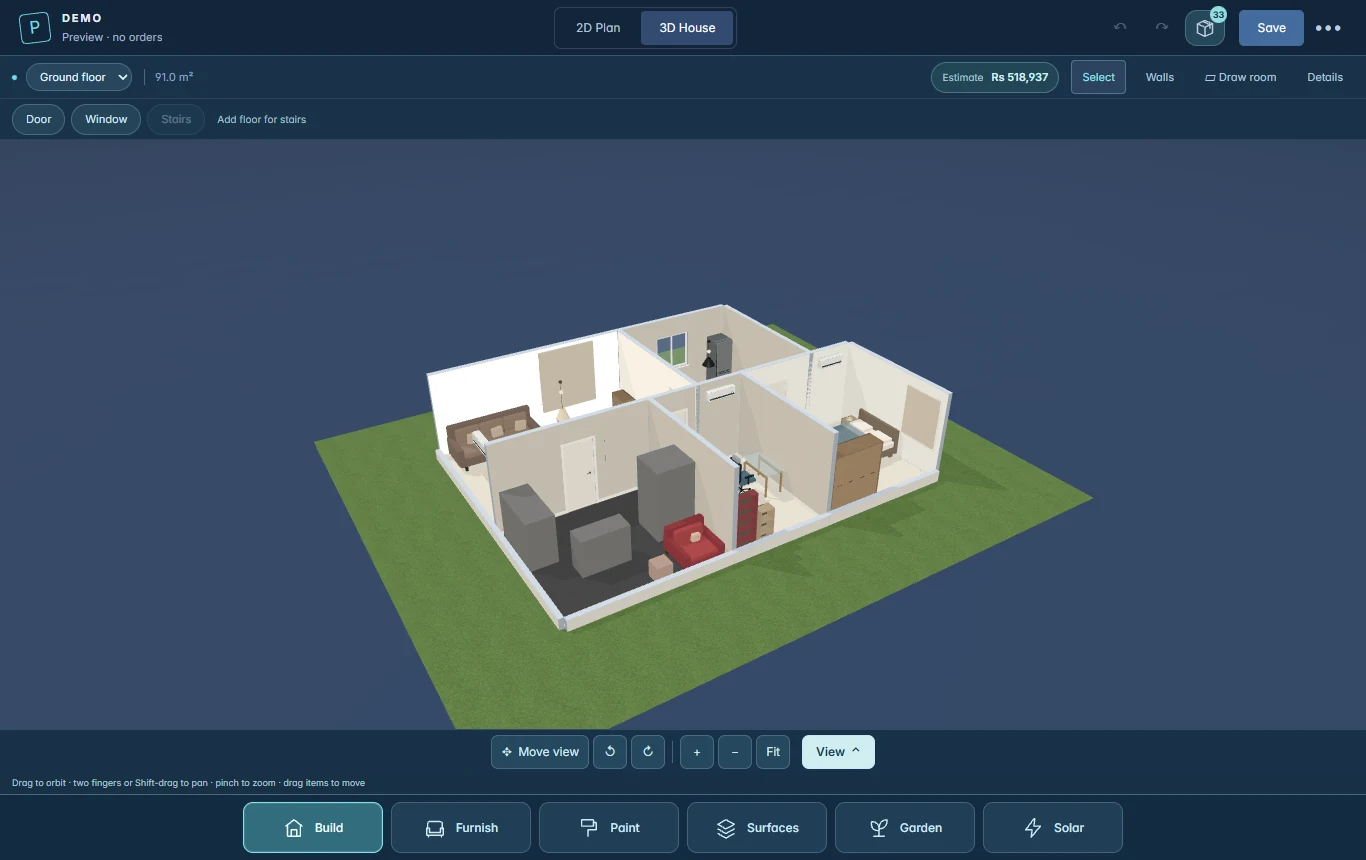
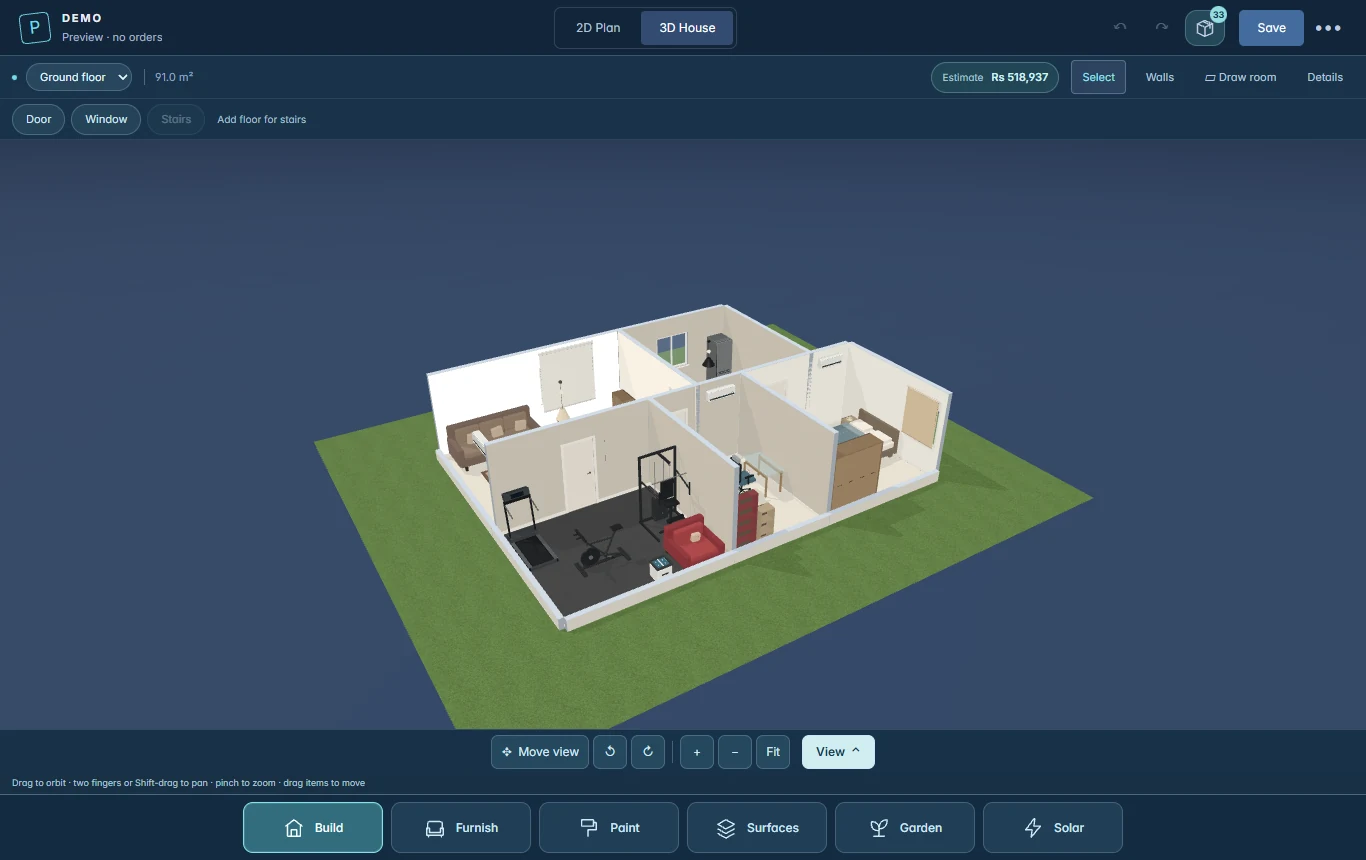
feat(designer): a blank plan opens in Plan, every demo opens in 3D; pitch captures re-shot on the finished tree
The 3D-first shell made even an empty /designer open in the House view,
where nothing can be drawn and the plan toolbar sits inert under the
overlay. A fresh store now opens in Plan (draw first, then walk it), and
the show flats keep opening in 3D: /demo and the embed carry the view in
their route, and the legacy /designer?demo=<slug> reads the same ?view=
query (default 3D, ?view=2d for the plan). demoViewFor() is the one place
that decides, with a unit test for each route shape.

The two app captures on the developer pitch are re-shot after the grey-box
and toolbar passes landed: the gym room shows shaped silhouettes, the plan
shows the capsule chrome.

Claude-Session: https://claude.ai/code/session_01FfktFpx5kKc5RjuGP4Adb4

Changed region(s): [[0.369, 0.514, 0.5227, 0.6953], [0.369, 0.393, 0.4612, 0.4837]]

diff --git a/src/demo/useDemoMode.ts b/src/demo/useDemoMode.ts
@@ -106,6 +106,18 @@ export function ensureDemoPage(demo: DemoDefinition): DemoPageOutcome {
   return 'loaded';
 }
 
+/**
+ * Which view a demo opens in. A show flat is built to be walked, so every
+ * demo opens in 3D unless the URL asks for the plan with `view=2d`. /demo and
+ * the embed carry the view in their route; the legacy /designer?demo=<slug>
+ * reads the same query. (A blank /designer is not a demo and opens in Plan.)
+ */
+export function demoViewFor(pathname: string, search: string): 'plan' | '3d' {
+  const route = demoRoute(pathname, search);
+  const view = route ? route.view : new URLSearchParams(search).get('view') === '2d' ? '2d' : '3d';
+  return view === '2d' ? 'plan' : '3d';
+}
+
 export function useDemoMode(): DemoDefinition | null {
   // useState's initialiser runs synchronously in the FIRST render, before any
   // child mounts — the one moment early enough for the catalogs (see header).
@@ -116,8 +128,7 @@ export function useDemoMode(): DemoDefinition | null {
   useEffect(() => {
     if (!demo) return;
     const outcome = ensureDemoPage(demo);
-    const route = demoRoute(window.location.pathname, window.location.search);
-    if (route) useDesignerUIStore.getState().setViewMode(route.view === '2d' ? 'plan' : '3d');
+    useDesignerUIStore.getState().setViewMode(demoViewFor(window.location.pathname, window.location.search));
     if (outcome !== 'current') {
       // "No orders" is only true on the read-only routes (/demo, the embed, a
       // preview build). The legacy /designer?demo=<slug> URL still takes a

diff --git a/src/demo/__tests__/useDemoMode.test.ts b/src/demo/__tests__/useDemoMode.test.ts
@@ -144,3 +144,15 @@ describe('ensureDemoPage', () => {
     expect(copies).toHaveLength(1);
   });
 });
+
+describe('demoViewFor (2026-09-26: demos open in 3D, the plan on request)', () => {
+  it('opens every demo in 3D unless the URL asks for the plan', async () => {
+    const { demoViewFor } = await import('../useDemoMode');
+    expect(demoViewFor('/designer', '?demo=tintex')).toBe('3d');
+    expect(demoViewFor('/designer', '?demo=courts&view=2d')).toBe('plan');
+    expect(demoViewFor('/demo', '')).toBe('3d');
+    expect(demoViewFor('/demo', '?scene=home&view=2d')).toBe('plan');
+    expect(demoViewFor('/embed/designer', '?scene=paint&view=3d')).toBe('3d');
+    expect(demoViewFor('/embed/designer', '?scene=home&view=2d')).toBe('plan');
+  });
+});

diff --git a/src/store/designerUIStore.ts b/src/store/designerUIStore.ts
@@ -279,7 +279,10 @@ export const useDesignerUIStore = create<DesignerUIState>()(
         erase: false,
       },
       energyPanelOpen: false,
-      viewMode: '3d',
+      // A blank plan opens in Plan: you draw first, then walk it in 3D. The
+      // furnished routes (/demo, /embed, /studio/designer?view=3d and the
+      // supplier show flats on /designer?demo=<slug>) ask for 3D themselves.
+      viewMode: 'plan',
       setViewMode: (mode) => set((s) => (s.viewMode === mode ? s : { viewMode: mode })),
       wallView: 'cutaway',
       setWallView: (view) => set((s) => (s.wallView === view ? s : { wallView: view })),

diff --git a/src/store/__tests__/designerUIStore.test.ts b/src/store/__tests__/designerUIStore.test.ts
@@ -204,3 +204,9 @@ describe('designerUIStore — selected wall', () => {
     expect(useDesignerUIStore.getState().selectedWallId).toBeNull();
   });
 });
+
+describe('view mode default (2026-09-26)', () => {
+  it('a fresh store opens in Plan — you draw first, then walk it in 3D; demos ask for 3D themselves', () => {
+    expect(useDesignerUIStore.getInitialState().viewMode).toBe('plan');
+  });
+});
